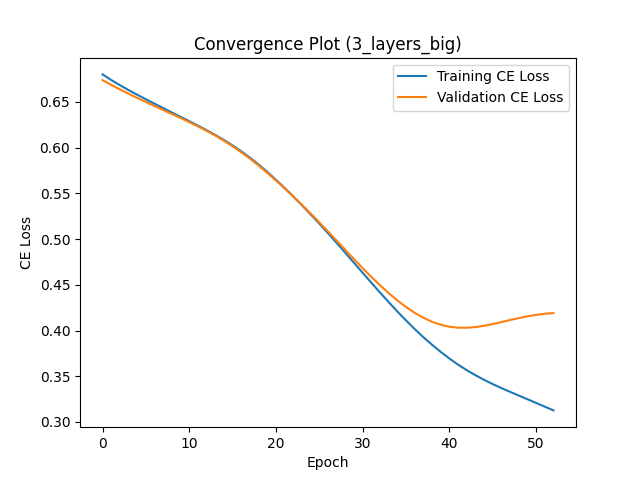
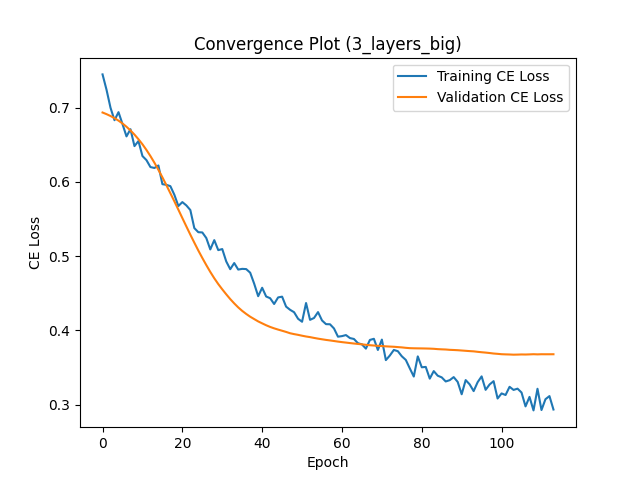
A6

diff --git a/2024_2025/cancer_detection_copy_a6_orestis.py b/2024_2025/cancer_detection_copy_a6_orestis.py
@@ -53,27 +53,31 @@ def plot_feature_correlation(X, save_path="feature_correlation_heatmap.png"):
     plt.savefig(save_path)
     plt.close()
 
-# DeepNet: supports multiple hidden layers via a list of hidden sizes.
+# Updated DeepNet: includes BatchNorm and Dropout to help generalization.
 class DeepNet(nn.Module):
-    def __init__(self, input_size, hidden_sizes, output_size=2, activation=nn.ReLU()):
+    def __init__(self, input_size, hidden_sizes, output_size=2, activation=nn.ReLU(), dropout_prob=0.2):
         """
         hidden_sizes: list of integers, one per hidden layer.
+        dropout_prob: dropout probability to reduce overfitting.
         """
         super(DeepNet, self).__init__()
         layers = []
         in_dim = input_size
         for h in hidden_sizes:
             layers.append(nn.Linear(in_dim, h))
+            layers.append(nn.BatchNorm1d(h))
             layers.append(activation)
+            layers.append(nn.Dropout(dropout_prob))
             in_dim = h
-        # Output layer, no activation as CrossEntropyLoss expects logits.
+        # Output layer (no activation because CrossEntropyLoss expects logits)
         layers.append(nn.Linear(in_dim, output_size))
         self.model = nn.Sequential(*layers)
     
     def forward(self, x):
         return self.model(x)
 
-def train(model, optimizer, criterion, X_train, y_train, X_val, y_val, epochs=50, device=torch.device("cpu"), patience=10):
+# Updated train function: now includes a learning rate scheduler and increased epochs.
+def train(model, optimizer, scheduler, criterion, X_train, y_train, X_val, y_val, epochs=300, device=torch.device("cpu"), patience=10):
     model.train()
     train_losses = []
     val_losses = []
@@ -93,6 +97,9 @@ def train(model, optimizer, criterion, X_train, y_train, X_val, y_val, epochs=50
             val_loss = criterion(val_outputs, y_val.to(device))
             val_losses.append(val_loss.item())
         model.train()
+        
+        # Step the scheduler using the current validation loss.
+        scheduler.step(val_loss.item())
         
         if val_loss.item() < best_val_loss:
             best_val_loss = val_loss.item()
@@ -121,15 +128,19 @@ def compute_mse(outputs, y, device=torch.device("cpu")):
 
 def deep_net_experiments(X_scaled, y, device):
     input_dim = X_scaled.shape[1]
-    # Example architectures:
+    # Original architectures plus huge ones:
     architectures = {
         "2_layers_constant": [input_dim, input_dim],
-        "2_layers_decreasing": [int(1.5*input_dim), input_dim],
+        "2_layers_decreasing": [int(1.5 * input_dim), input_dim],
         "3_layers_uniform": [input_dim, input_dim, input_dim],
-        "3_layers_decreasing": [int(1.5*input_dim), input_dim, int(0.75*input_dim)]
+        "3_layers_decreasing": [int(1.5 * input_dim), input_dim, int(0.75 * input_dim)],
+        # HUGE architectures:
+        "3_layers_huge": [input_dim * 4, input_dim * 4, input_dim * 4],
+        "4_layers_huge": [input_dim * 4, input_dim * 4, input_dim * 4, input_dim * 4],
+        "5_layers_huge": [input_dim * 4, input_dim * 4, input_dim * 4, input_dim * 4, input_dim * 4]
     }
     results = {}
-    epochs = 250
+    epochs = 300
     skf = StratifiedKFold(n_splits=5, shuffle=True, random_state=42)
     
     for arch_label, hidden_sizes in architectures.items():
@@ -144,11 +155,15 @@ def deep_net_experiments(X_scaled, y, device):
             X_train, X_test = X_scaled[train_index], X_scaled[test_index]
             y_train, y_test = y[train_index], y[test_index]
             
-            model = DeepNet(input_size=input_dim, hidden_sizes=hidden_sizes, activation=nn.ReLU()).to(device)
+            # Create model with dropout and batch normalization.
+            model = DeepNet(input_size=input_dim, hidden_sizes=hidden_sizes, activation=nn.ReLU(), dropout_prob=0.2).to(device)
+            # Use Adam optimizer with weight decay (L2 regularization).
+            optimizer = optim.Adam(model.parameters(), lr=0.001, weight_decay=1e-4)
+            # Scheduler to reduce LR on plateau.
+            scheduler = optim.lr_scheduler.ReduceLROnPlateau(optimizer, mode='min', factor=0.5, patience=5)
             criterion = nn.CrossEntropyLoss()
-            optimizer = optim.Adam(model.parameters(), lr=0.001)
             
-            train_losses, val_losses = train(model, optimizer, criterion, X_train, y_train, X_test, y_test,
+            train_losses, val_losses = train(model, optimizer, scheduler, criterion, X_train, y_train, X_test, y_test,
                                              epochs=epochs, device=device, patience=10)
             model.eval()
             with torch.no_grad():
